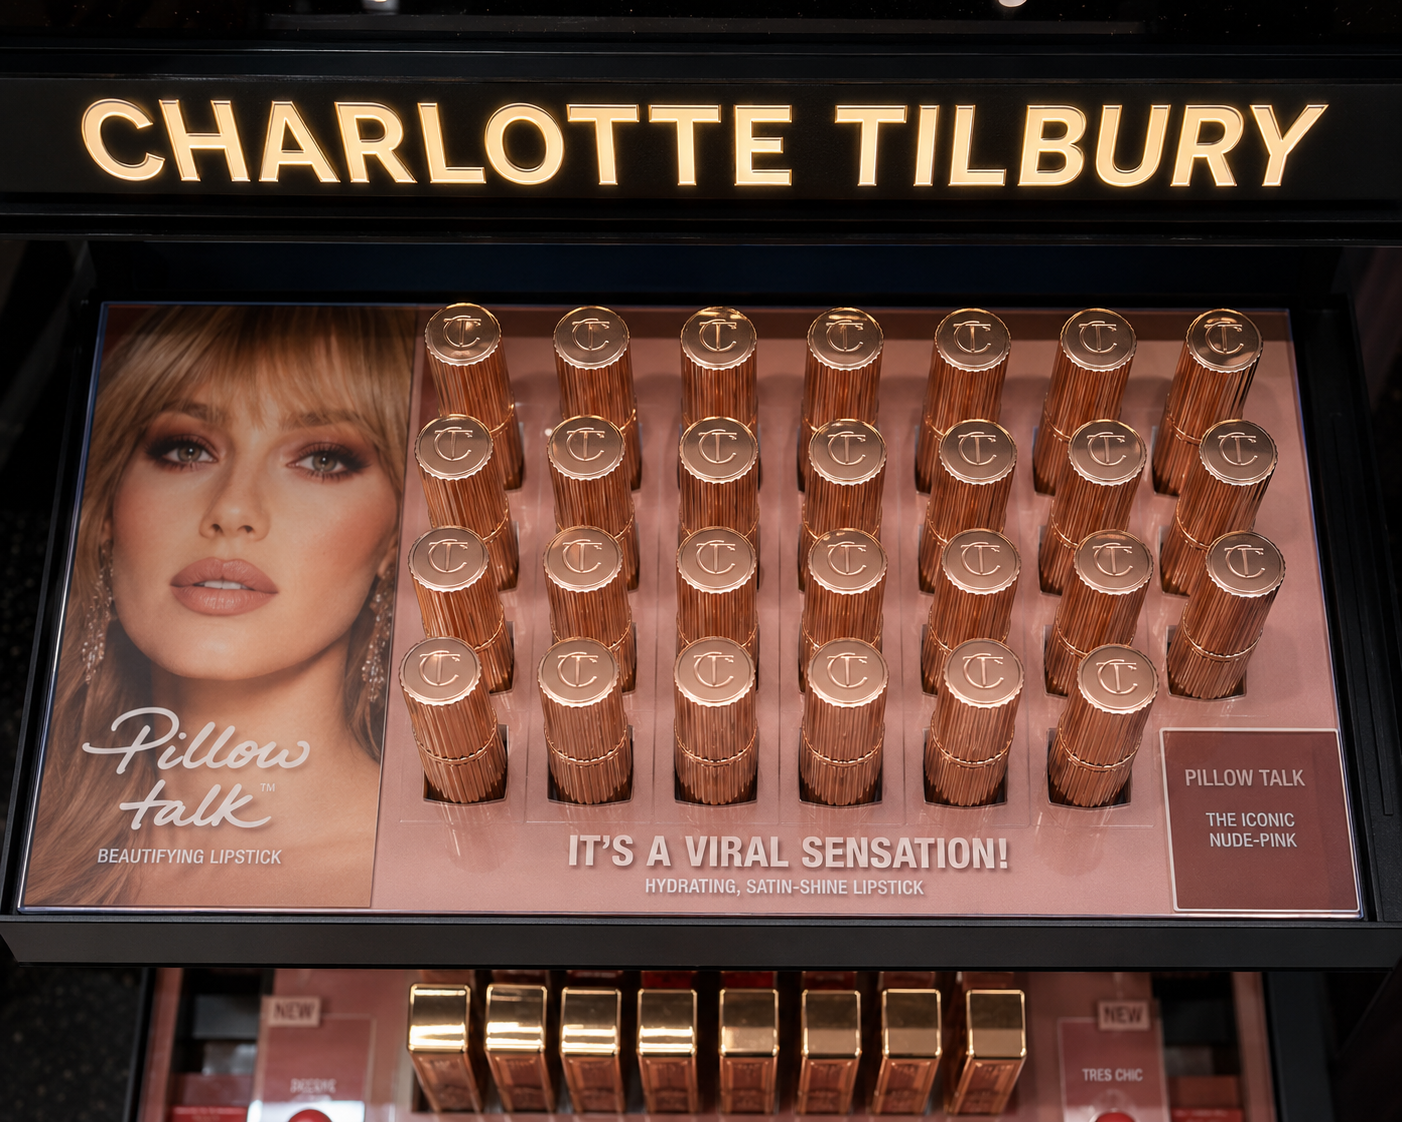
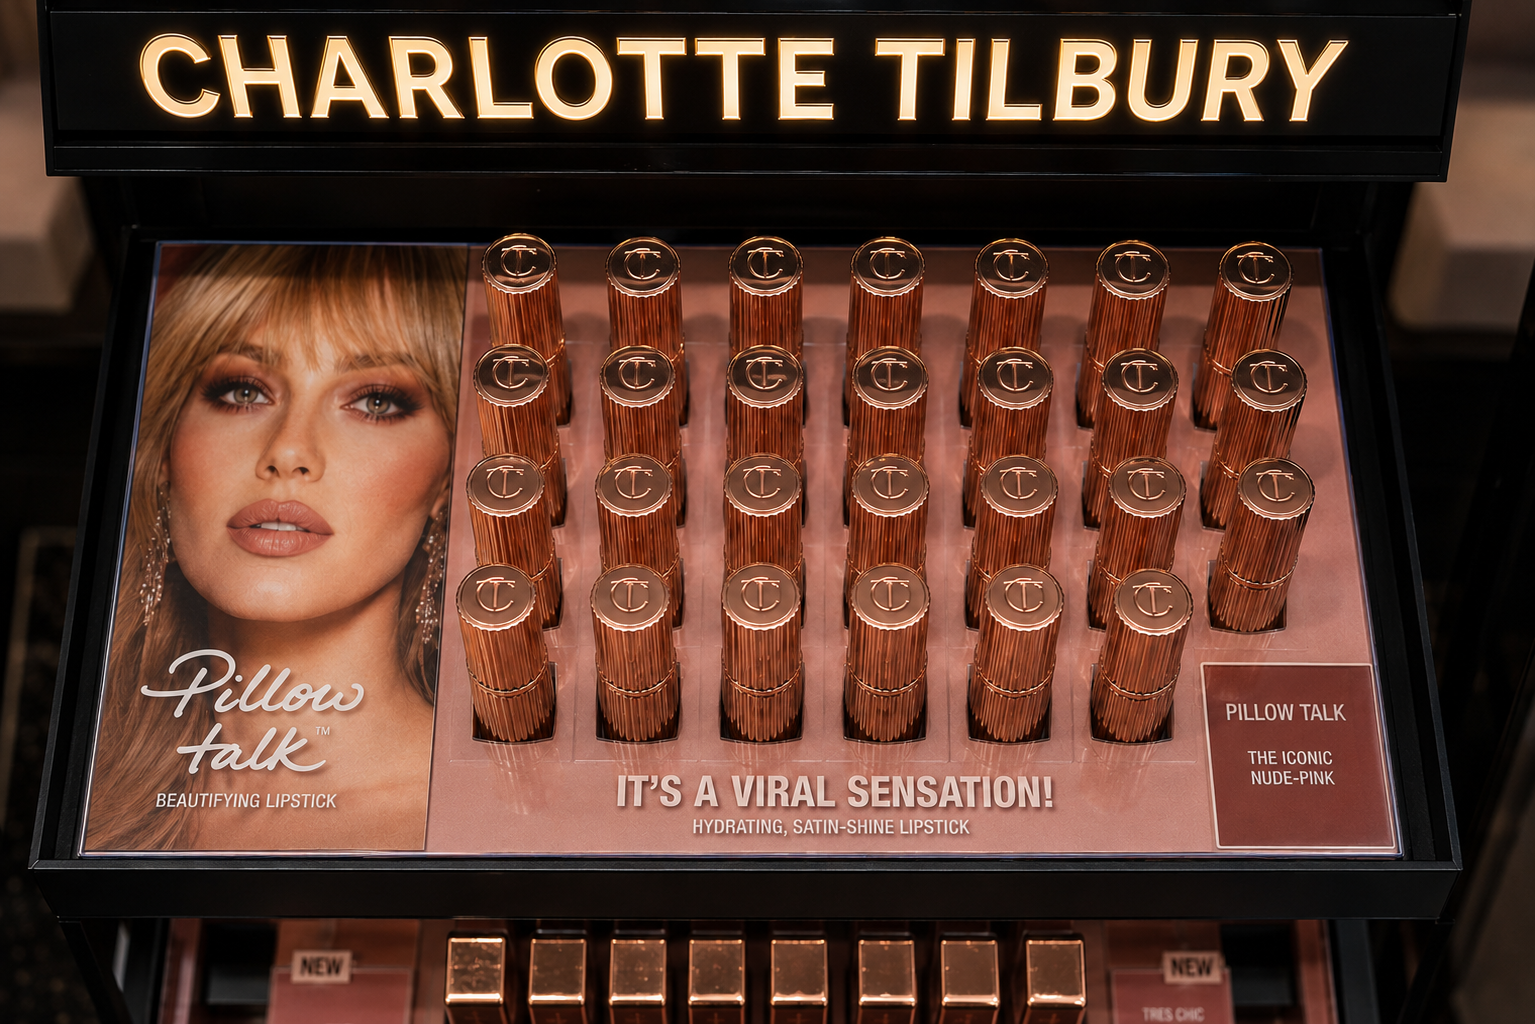
add cosmetics product images and enhance gallery with new designs

diff --git a/data/products.js b/data/products.js
@@ -59,8 +59,8 @@ const products = [
     slug: "cosmetics",
     name: "Cosmetics Pallets",
     shortDesc: "Beauty & personal care pallets from name-brand suppliers.",
-    img: "/cosmetics/cosmetic-1.png",
-    hoverImg: "/cosmetics/cosmetic-1-alt.png",
+    img: "/cosmetics/cosmetic-6.png",
+    hoverImg: "/cosmetics/cosmetic-6-alt.png",
     headerImg: "/headers/cosmetics-header.png",
     gallery: [
       { img: "/cosmetics/cosmetic-1.png", hoverImg: "/cosmetics/cosmetic-1-alt.png" },
